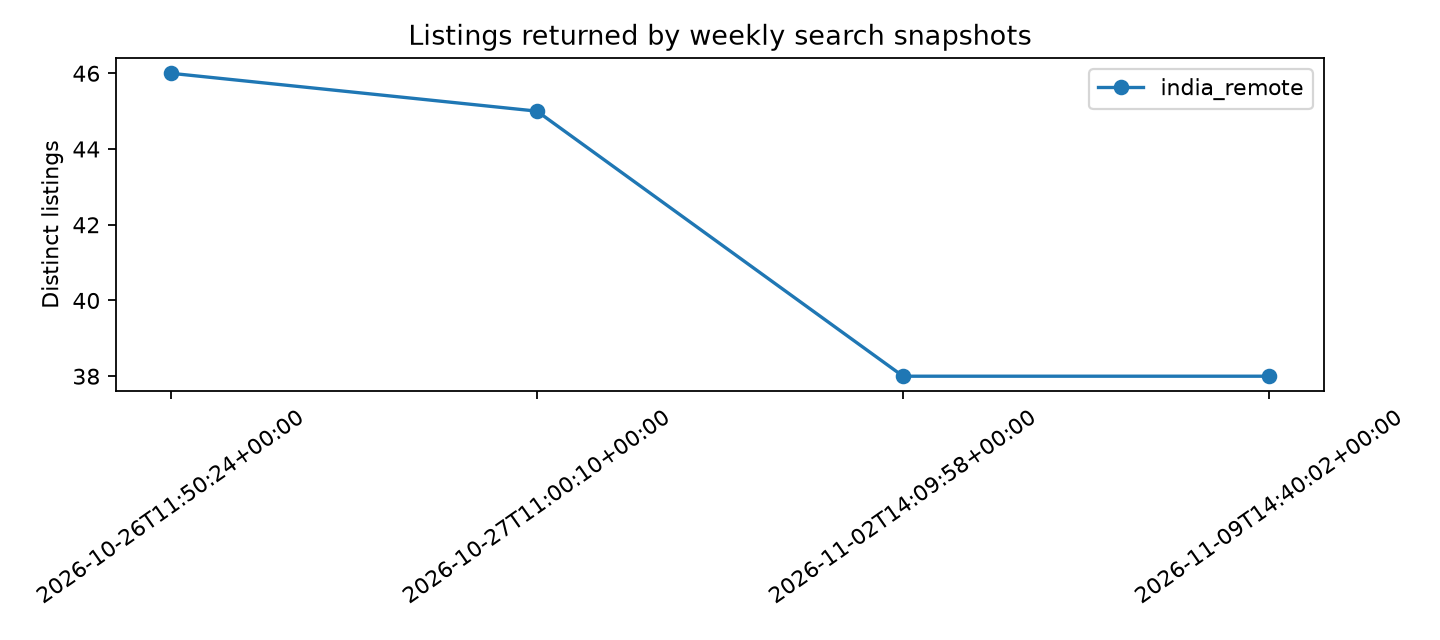
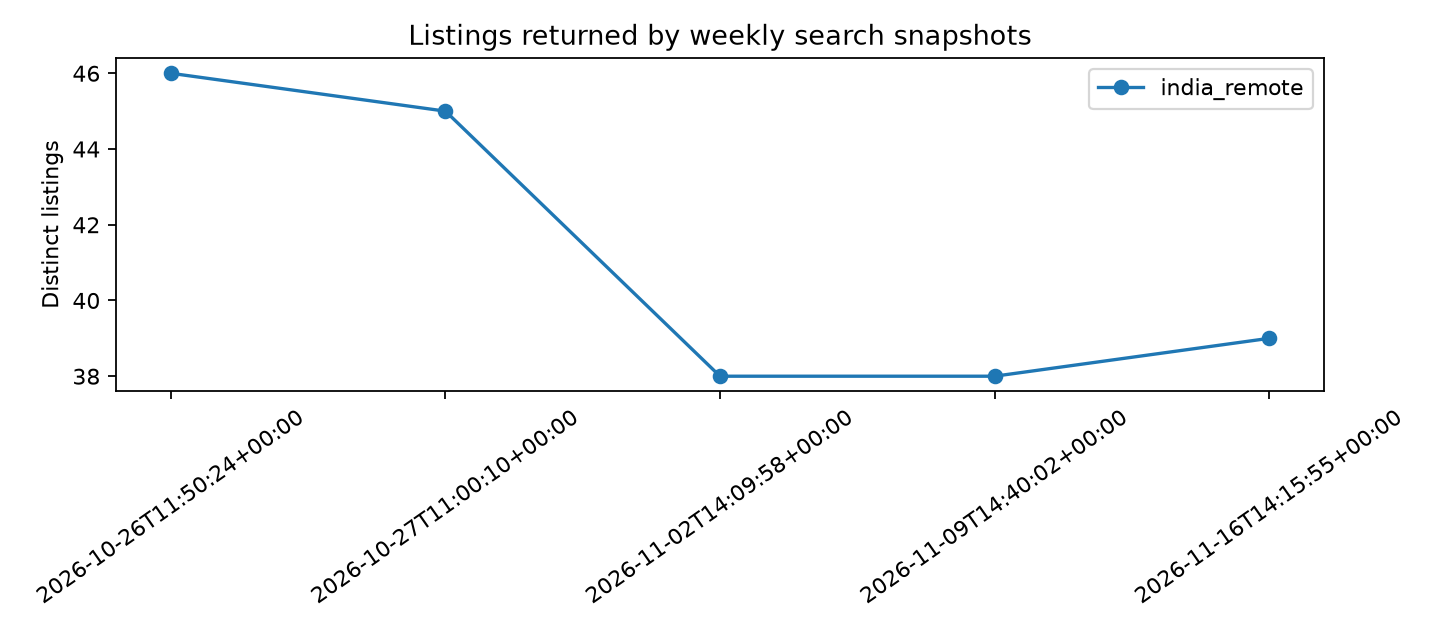
Refresh analyst job-market report

diff --git a/india-data-analyst-job-market-capstone/reports/dashboard.html b/india-data-analyst-job-market-capstone/reports/dashboard.html
@@ -1,8 +1,8 @@
 <!doctype html><html lang="en"><meta charset="utf-8"><meta name="viewport" content="width=device-width,initial-scale=1"><title>India Remote Data Analyst Job Market</title>
     <style>:root{color-scheme:dark;--bg:#080b11;--panel:#101622;--line:#243044;--text:#ecf2ff;--muted:#9ba9bd;--accent:#91a8ff;--mint:#79e0c1}*{box-sizing:border-box}body{margin:0;background:radial-gradient(ellipse at 80% -20%,#182441 0,transparent 46%),var(--bg);color:var(--text);font:16px/1.6 Inter,system-ui,sans-serif}main{max-width:1040px;margin:auto;padding:34px 22px 70px}nav,footer{color:var(--muted);font-size:13px;border-bottom:1px solid var(--line);padding:12px 0 20px}footer{border:0;border-top:1px solid var(--line);margin-top:32px;padding-top:20px}h1{font-size:clamp(38px,7vw,68px);line-height:1.05;letter-spacing:-.06em}.note,.panel{padding:20px;border:1px solid var(--line);border-radius:14px;background:var(--panel);margin:24px 0}.note{border-color:#48537a}table{border-collapse:collapse;width:100%}th,td{text-align:left;padding:10px;border-bottom:1px solid var(--line)}th{color:var(--mint)}img{max-width:100%;height:auto}a{color:var(--accent)}</style>
     <main><nav>BHARATH B · DATA ANALYTICS</nav><h1>What do data analyst job ads ask for?</h1><p>India-eligible remote listings · refreshed by weekly snapshots</p>
-    <section class="note">Source: <a href="https://himalayas.app/api">Himalayas public jobs API</a>. The API returned 415 keyword candidates; the title filter retained 38 analyst listings. This is a remote-job sample filtered for India eligibility, not a census, and does not represent Chennai or on-site roles.</section>
-    <section class="panel"><h2>Skills mentioned</h2><img src="skill_demand.png" alt="Skill demand chart"><table><thead><tr><th>Skill</th><th>Listings</th><th>Share</th></tr></thead><tbody><tr><td>Data visualization</td><td>30</td><td>78.9%</td></tr><tr><td>SQL</td><td>28</td><td>73.7%</td></tr><tr><td>Python</td><td>24</td><td>63.2%</td></tr><tr><td>Tableau</td><td>21</td><td>55.3%</td></tr><tr><td>Excel</td><td>20</td><td>52.6%</td></tr><tr><td>Power BI</td><td>19</td><td>50.0%</td></tr><tr><td>Communication</td><td>18</td><td>47.4%</td></tr><tr><td>Statistics</td><td>18</td><td>47.4%</td></tr><tr><td>ETL / data pipelines</td><td>11</td><td>28.9%</td></tr><tr><td>Cloud (AWS/Azure/GCP)</td><td>10</td><td>26.3%</td></tr></tbody></table></section>
+    <section class="note">Source: <a href="https://himalayas.app/api">Himalayas public jobs API</a>. The API returned 408 keyword candidates; the title filter retained 39 analyst listings. This is a remote-job sample filtered for India eligibility, not a census, and does not represent Chennai or on-site roles.</section>
+    <section class="panel"><h2>Skills mentioned</h2><img src="skill_demand.png" alt="Skill demand chart"><table><thead><tr><th>Skill</th><th>Listings</th><th>Share</th></tr></thead><tbody><tr><td>Data visualization</td><td>30</td><td>76.9%</td></tr><tr><td>SQL</td><td>29</td><td>74.4%</td></tr><tr><td>Python</td><td>23</td><td>59.0%</td></tr><tr><td>Tableau</td><td>21</td><td>53.8%</td></tr><tr><td>Communication</td><td>20</td><td>51.3%</td></tr><tr><td>Power BI</td><td>20</td><td>51.3%</td></tr><tr><td>Excel</td><td>19</td><td>48.7%</td></tr><tr><td>Statistics</td><td>16</td><td>41.0%</td></tr><tr><td>Cloud (AWS/Azure/GCP)</td><td>12</td><td>30.8%</td></tr><tr><td>ETL / data pipelines</td><td>11</td><td>28.2%</td></tr></tbody></table></section>
     <section class="panel"><h2>Advertised salaries by experience label</h2><table><thead><tr><th>Experience</th><th>Currency</th><th>Period</th><th>Salary listings</th><th>Mean midpoint</th></tr></thead><tbody><tr><td>mid</td><td>INR</td><td>annual</td><td>3</td><td>702,517</td></tr><tr><td>mid</td><td>USD</td><td>monthly</td><td>1</td><td>1,650</td></tr></tbody></table><p>Only postings with disclosed salary are included. Currencies and pay periods are kept separate.</p></section>
-    <section class="panel"><h2>Weekly listing counts</h2><img src="posting_counts.png" alt="Listing counts across weekly pulls"><table><thead><tr><th>Collected (UTC)</th><th>Listings</th></tr></thead><tbody><tr><td>2026-10-26T11:50:24+00:00</td><td>46</td></tr><tr><td>2026-10-27T11:00:10+00:00</td><td>45</td></tr><tr><td>2026-11-02T14:09:58+00:00</td><td>38</td></tr><tr><td>2026-11-09T14:40:02+00:00</td><td>38</td></tr></tbody></table></section>
+    <section class="panel"><h2>Weekly listing counts</h2><img src="posting_counts.png" alt="Listing counts across weekly pulls"><table><thead><tr><th>Collected (UTC)</th><th>Listings</th></tr></thead><tbody><tr><td>2026-10-26T11:50:24+00:00</td><td>46</td></tr><tr><td>2026-10-27T11:00:10+00:00</td><td>45</td></tr><tr><td>2026-11-02T14:09:58+00:00</td><td>38</td></tr><tr><td>2026-11-09T14:40:02+00:00</td><td>38</td></tr><tr><td>2026-11-16T14:15:55+00:00</td><td>39</td></tr></tbody></table></section>
     <p><a href="findings.md">Written findings</a> · <a href="skill_demand_latest.csv">Skill data</a> · <a href="salary_by_experience.csv">Salary data</a></p><footer>Analysis of remote listings available to India-based applicants. Source: Himalayas. Raw descriptions are not published.</footer></main></html>

diff --git a/india-data-analyst-job-market-capstone/reports/findings.md b/india-data-analyst-job-market-capstone/reports/findings.md
@@ -2,28 +2,28 @@
 
 Data source: [Himalayas public jobs API](https://himalayas.app/api). This is a remote-job search sample filtered for India eligibility, not all jobs in India.
 
-Successful pulls: 4. The latest API search reported 415 keyword candidates; the title filter retained 38 distinct analyst listings.
+Successful pulls: 5. The latest API search reported 408 keyword candidates; the title filter retained 39 distinct analyst listings.
 
 The collector keeps data analyst, analytics analyst, and business-intelligence analyst titles; content-only matches are excluded.
 
 ## Most frequently detected skills
 
-Counts are from the latest pull (38 listings); a listing may mention multiple skills.
+Counts are from the latest pull (39 listings); a listing may mention multiple skills.
 
-- Data visualization: 30 listings (78.9%).
-- SQL: 28 listings (73.7%).
-- Python: 24 listings (63.2%).
-- Tableau: 21 listings (55.3%).
-- Excel: 20 listings (52.6%).
-- Power BI: 19 listings (50.0%).
-- Communication: 18 listings (47.4%).
-- Statistics: 18 listings (47.4%).
-- ETL / data pipelines: 11 listings (28.9%).
-- Cloud (AWS/Azure/GCP): 10 listings (26.3%).
+- Data visualization: 30 listings (76.9%).
+- SQL: 29 listings (74.4%).
+- Python: 23 listings (59.0%).
+- Tableau: 21 listings (53.8%).
+- Communication: 20 listings (51.3%).
+- Power BI: 20 listings (51.3%).
+- Excel: 19 listings (48.7%).
+- Statistics: 16 listings (41.0%).
+- Cloud (AWS/Azure/GCP): 12 listings (30.8%).
+- ETL / data pipelines: 11 listings (28.2%).
 
 ## Advertised salary coverage
 
-4 of 38 latest listings (10.5%) disclose a salary range. See `salary_by_experience.csv` for salary groups split by experience label, currency, and period. Values are not converted across currencies or periods.
+4 of 39 latest listings (10.3%) disclose a salary range. See `salary_by_experience.csv` for salary groups split by experience label, currency, and period. Values are not converted across currencies or periods.
 
 ## Change across weekly pulls
 
